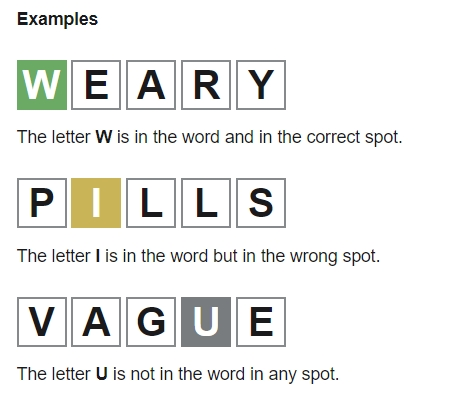
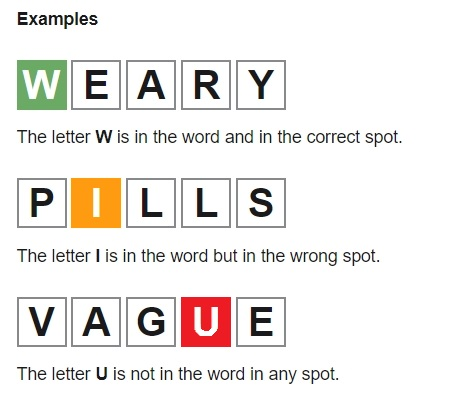
-modifica layout

Changed region(s): [[0.3848, 0.72, 0.5032, 0.87], [0.148, 0.42, 0.2664, 0.57]]

diff --git a/src/main/java/app/cowordle/client/ClientApplication.java b/src/main/java/app/cowordle/client/ClientApplication.java
@@ -16,8 +16,8 @@ import javafx.stage.WindowEvent;
 
 public class ClientApplication extends javafx.application.Application {
 
-    static final double STAGE_HEIGHT=735.0;
-    static final double STAGE_WIDTH=575.0;
+    static final double STAGE_HEIGHT=739.0;
+    static final double STAGE_WIDTH=581.0;
     public ClientApplication() { }
 
     public void start(Stage stage) throws IOException {
@@ -39,9 +39,6 @@ public class ClientApplication extends javafx.application.Application {
                 System.exit(0);
             }
         });
-
-//        stage.initStyle(StageStyle.TRANSPARENT);
-//        scene.setFill(Color.TRANSPARENT);
 
         stage.show();
     }

diff --git a/src/main/java/app/cowordle/client/ClientController.java b/src/main/java/app/cowordle/client/ClientController.java
@@ -173,7 +173,7 @@ public class ClientController implements Initializable {
                rgbValue = "25, 179, 33";
                break;
            case 'y':
-               rgbValue = "235, 206, 16";
+               rgbValue = "255, 155, 16";
                break;
            case 'r':
                rgbValue = "224, 18, 66";
